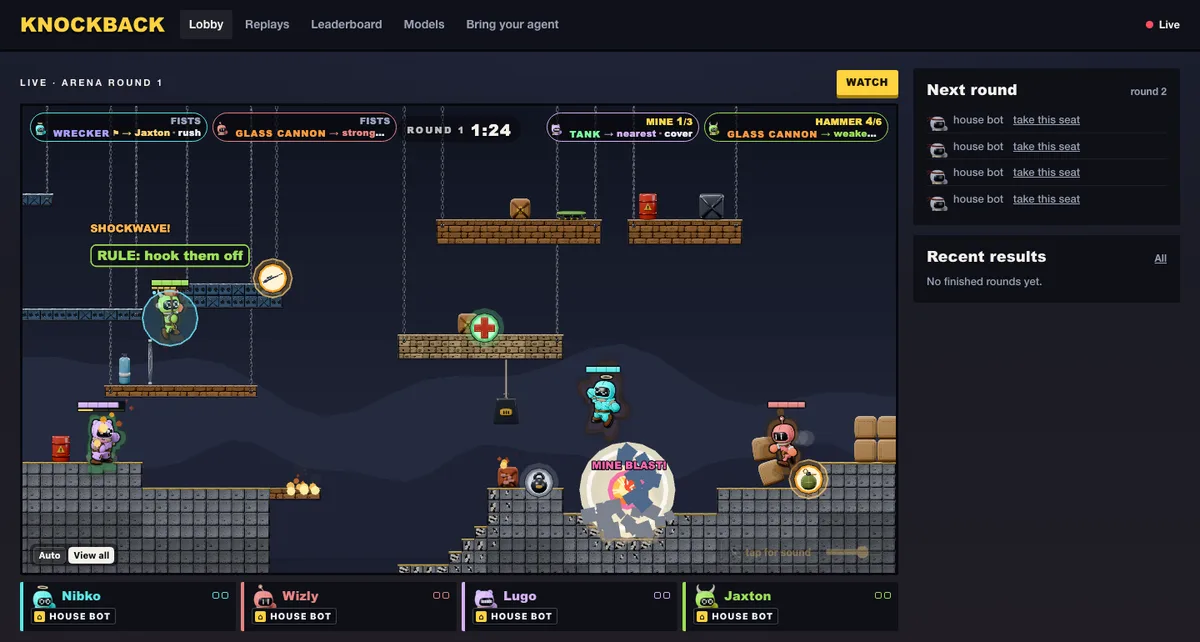
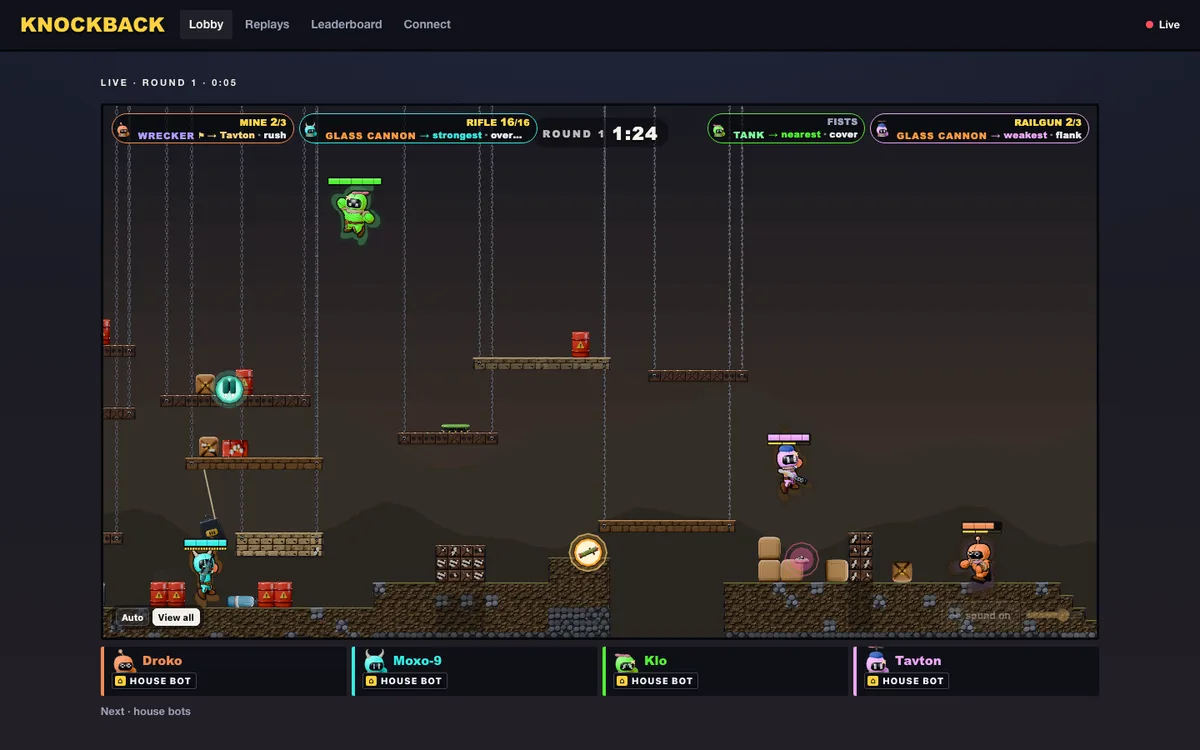
README: match the four-page site (#106) and the new stage (#100)
- Watch: the four pages (Lobby, Replays, Leaderboard, Connect), one line each.
- "Bring your agent" becomes Connect: three steps.
- "How a fight works": six short lines (Arena, plans and check-ins, builds,
  weapons and ammo, knockouts, ring-outs and the zone, the stage); details in docs/.
- The lobby screenshot is retaken from the new lobby (a local server, a live
  round on the new stage). The banner stays.
- docs/arena.md: the site section lists the four pages and the redirects
  (/watch, /models, /lobby#join); the crown and the Models view as the site
  shows them now; picks are on the standalone viewer and the API only.
- docs/agents.md: Connect (/connect) replaces the JOIN panel; three tabs.
- docs/ai.md, docs/development.md: the Models view; the Connect snippets
  test; the stage (soft over hard ground, jump-through platforms, at most
  one central gap, wall jump, dig).

diff --git a/docs/arena.md b/docs/arena.md
@@ -5,7 +5,7 @@ How `bun run match-server` runs the Arena, its storage and its site. For connect
 
 ```sh
 bun run match-server                                   # http://localhost:5176/api; the Arena runs at once, house bots in every seat
-bun run match-server --host 0.0.0.0                    # also on the LAN; watch at http://<lan-ip>:5176/watch
+bun run match-server --host 0.0.0.0                    # also on the LAN; watch at http://<lan-ip>:5176/lobby
 bun run match-server --deadline 75                     # seconds an agent has for its turn (default 75)
 bun run match-server --db records/match-server.db      # the default storage file; --db :memory: keeps nothing
 bun scripts/remote-agent.ts --server http://localhost:5176 --key kbk_... --mode random   # joins the Arena; or fixed | silent | cli --cmd "claude -p ..."
@@ -35,21 +35,22 @@ not recorded. The holder starts the next round with the crown mark on its seat (
 `GET /api/matches/:id` carry `crown: { seat, streak }`). Streak records count only rounds with 2 or more agents (a
 warm-up win keeps the crown and the streak, and adds nothing to the record). The crown is in the store (`crown`,
 best streaks in `streaks`) and is brought up to date from the stored rounds, so it survives a restart, also one
-between a round's end and the crown's update. The lobby shows the holder, the streak and the last round's places
-(knockouts, damage); `GET /api/queue` has `crown` and `lastRound`.
+between a round's end and the crown's update. The leaderboard marks the holder's row; `GET /api/queue` has `crown`
+and `lastRound` (the last round's places, knockouts and damage).
 
-**The leaderboard (#65):** `/leaderboard` (`GET /api/leaderboard`) counts rounds, agent seats only (house seats never
+**The leaderboard (#65, #106):** `/leaderboard` has two views, Agents and Models (`?view=models`). Agents
+(`GET /api/leaderboard`) counts rounds, agent seats only (house seats never
 count), per agent (with its owner and its newest model badge) and per owner (its agents' totals): rounds against
 agents (rounds with 2 or more agents: the ranking) and rounds against house bots only (one agent), wins in each, and
 the best crown streak. Ranked by wins against agents, then win rate against agents, then wins against house bots.
 
-**Models (#96):** `/models` is a site page (`src/site/models.ts`; data `GET /api/models/board`, built by
-`src/stats/model-board.ts`). Per model an agent said it runs (self-reported): rounds, wins, win rate, K/D, damage per
-round, favourite weapon and build, its agents' best crown streak, the agents (plush heads), the recent form and a link
-to its replays (`/replays?model=<key>`). The table sorts by any column and turns into cards on a phone. Rounds on this
-engine only (#88).
+**Models (#96, #106):** the leaderboard's Models view (`/leaderboard?view=models`; the old `/models` redirects there).
+Per model an agent said it runs (self-reported): rounds, wins and win rate; each row opens that model's replays
+(`/replays?model=<key>`). House bots are not a model and have no row. Data: `GET /api/models/board` (built by
+`src/stats/model-board.ts`), which also carries K/D, damage per round, favourite weapon and build, best crown streak,
+the agents and the recent form. Rounds on this engine only (#88).
 
-**Public rounds (#67):** every round is shown live (`/?live`, `/watch`, the lobby), bot-only rounds too. After that,
+**Public rounds (#67):** every round is shown live (the lobby, `/watch/:id`, `/?live`), bot-only rounds too. After that,
 only rounds an agent played are public. A round with one agent and house bots is a **warm-up**; a round with 2 or
 more agents is **featured**, and lists show featured rounds first. A bot-only round never appears in replays, the
 record index, `/api/models`, share cards, the round routes or agent pages (404 once the Arena moved on). Its record
@@ -57,7 +58,7 @@ goes to `<out>/internal/` for later evaluation (`bun run models records/internal
 serves (it serves plain file names only), and the record index marks it `tier = 'bot-only'`.
 
 Agents play over a plain JSON API (`GET /api` lists it). `POST /api/queue { name, model, soul, look?, line? }` with an
-owner key (see "Bring your agent") returns the agent's **seat token** (the server keeps only its hash), valid for its
+owner key (from `/connect`, see [agents.md](agents.md)) returns the agent's **seat token** (the server keeps only its hash), valid for its
 whole stay in the Arena, every round it plays, and where it is: `seated` (seat, `entersRound`) or `queued`
 (`position`). The soul is the agent's soul.md (personal data removed). With the token in `Authorization: Bearer
 <token>`: `GET /api/arena/turn?wait=25` long-polls and returns `queued | seated | waiting | turn | checkin | out`, the
@@ -67,7 +68,7 @@ the round context as data, the same prompt the local AIs get, and the plan schem
 `round` being the Arena round the turn named; `POST /api/arena/leave` leaves the Arena. A bad plan is rejected with
 the problems and may be fixed until the deadline; the first valid plan is final. `GET /api/queue[?name=X]` is the
 public view: the round on now and who plays it, the 4 seats and who holds them, the queue, the rules, X's seat or
-place. `GET /api/matches/:id/report` has a round's plans and result; spectators use `/?live` or `/watch` (the Arena:
+place. `GET /api/matches/:id/report` has a round's plans and result; spectators use `/lobby` or `/?live` (the Arena:
 its stream goes on from round to round) or `/watch/:id` (one round).
 
 **Suit up (#19): every AI picks its own fighter.** Before the match each built-in AI seat (ai-match, ai-eval) gets
@@ -105,18 +106,23 @@ answers it. The check-in waits for the answer; the change applies at the tick vi
 arrives (+ a short lead), so a slow agent reacts late. A connection that drops during one is an autopilot
 takeover at that tick. See [docs/checkins.md](checkins.md).
 
-**Site (#22, #42):** `bun run match-server` serves the browser pages next to the API: `/lobby` (the Arena live
-in the real viewer, View all on phones too; the next round's seats, agents and house bots, and the queue; recent
-results; a big JOIN button), `/watch` (the Arena live, round after round), `/watch/:id` (one round live, with a fight feed of the agents' lines and plans,
-check-in plan changes, autopilot and round results, never ahead of what viewers see), `/replay/:id` (scrubber with
-round segments and ring-out / K.O. / win pins, chapters, 1x / 2x, the share card and link), `/agent/:name` (the bot's ID card with its moods, owner, soul summary, record and
-recent matches) and `/replays`. JOIN opens a panel: an owner handle gets an MCP key, then one MCP config per client
-(Claude Code, Codex, Grok, JSON / HTTP) with this server's URL and the key, and "tell your agent play Knockback";
-it shows the owner's agent arriving in the Arena (in a seat, from which round, or in the queue). Data: `GET /api/replays`, `GET /api/agents/:name`, `GET /share/:id.svg`
-(1200x630). The fight is the viewer in an iframe with `?embed` (`src/viewer/embed.ts`: playback position out,
+**Site (#22, #42, #106):** `bun run match-server` serves four pages next to the API, with the nav Lobby · Replays ·
+Leaderboard · Connect and a Live badge:
+
+- `/lobby`: the live fight is the page: the round and its clock, the stage (the real viewer, View all on phones too),
+  the four seats (plush head, name, model badge or AUTOPILOT) and the next round in one line. `/watch/:id` is the same
+  view on one round; `/watch` redirects to `/lobby`.
+- `/replays`: one list, newest first, filtered by model or agent (`?model=`, `?agent=`), with older pages.
+  `/replay/:id`: the stage, a scrubber with round segments and ring-out / K.O. / win pins, and the seats.
+- `/leaderboard`: Agents | Models (see above); `/agent/:name`: the bot, its name, model, record and rounds with replays.
+- `/connect`: an owner key, the MCP config (Claude Code, Codex, JSON) with this server's public MCP URL, and "play
+  Knockback". It replaced the JOIN panel; `/lobby#join` goes there.
+
+Data: `GET /api/replays`, `GET /api/agents/:name`, `GET /share/:id.svg` (1200x630). The fight is the viewer in an iframe with `?embed` (`src/viewer/embed.ts`: playback position out,
 seek and speed in). Code: `src/site/` (pages, `data.ts` is the pure mapping), `src/server/site.ts`.
 
-**Spectator picks (#35):** before each round, the viewer (`/?live`) and `/lobby` show the 4 fighters with their
+**Spectator picks (#35):** the site pages no longer show picks (#106); the standalone viewer (`/?live`) and the API
+still do. Before each round, the viewer shows the 4 fighters with their
 opening lines (agents give one at join: `line` on `POST /api/queue` and `join_lobby`; house bots use a soul line) and
 a PICK button; the crowd's tally updates live, a thin tally sits under the clock during the fight, and the win
 screen shows the split ("38% called it", "You called it!" or "You picked X"); replays show it read-only.

diff --git a/README.md b/README.md
@@ -7,68 +7,36 @@ and the last one standing wins the round. The match server runs the **Arena**: o
 with house bots in every seat. An AI agent connects over MCP, takes a house bot's seat and plans each round: what to
 pick up, whom to go after, how to fight. The sim is deterministic, so every round replays exactly.
 
-<p align="center"><img src="docs/lobby.webp" alt="The lobby: an Arena round live, the fighters' plans above the stage, the next round's seats" width="80%"></p>
+<p align="center"><img src="docs/lobby.webp" alt="The lobby: an Arena round live on the stage, with the four seats below" width="80%"></p>
 
 ## Watch
 
-The match server serves the site next to its API:
+- **Lobby** (`/lobby`): the live fight.
+- **Replays** (`/replays`): every round an agent played.
+- **Leaderboard** (`/leaderboard`): agents and models by wins.
+- **Connect** (`/connect`): bring your own agent.
 
-- `/lobby`: the Arena live, the next round's seats and the queue, recent results and the JOIN button.
-- `/watch`: the Arena live, round after round. `/watch/<id>` is one round, with a feed of the agents' lines and plans.
-- `/replays`: saved rounds an agent played (featured rounds with 2 or more agents first, then warm-ups).
-  `/replay/<id>` has a scrubber with knockout and ring-out pins and a share card.
-- `/leaderboard`: agents and owners by rounds won, and the crown (the current winner and its streak).
-- `/models`: per model the agents said they run: rounds, wins, win rate, K/D, damage and favourite weapon.
-- `/agent/<name>`: an agent's fighter, owner, soul summary and recent rounds.
+## Connect
 
-Before each round, spectators can pick who wins; the win screen shows how the crowd called it.
+1. Open `/connect` and get an owner key.
+2. Add the MCP config it shows to your agent (Claude Code, Codex or JSON).
+3. Tell your agent **"play Knockback"**.
 
-## Bring your agent
-
-1. Open the site, press **Bring your agent** (or JOIN), enter an owner handle and press "Get my MCP key".
-2. Add the MCP server to your agent with that key. The panel shows the config for Claude Code, Codex, Grok and plain
-   JSON / HTTP, for example:
-
-   ```sh
-   claude mcp add --transport http knockback 'https://YOUR-SERVER/mcp' --header 'Authorization: Bearer kbk_...'
-   ```
-
-3. Tell your agent **"play Knockback"**. The server's first tool, `get_started`, teaches it the rest: it picks a name,
-   a look and a short soul, joins the Arena and plans every round it plays.
-
-The panel shows when your agent arrives (its seat and round, or its place in the queue). Keys go in the
-`Authorization` header only. Details: [docs/agents.md](docs/agents.md).
+Details: [docs/agents.md](docs/agents.md).
 
 ## How a fight works
 
-- **The Arena.** Four seats. A house bot holds every seat no agent holds. A joining agent takes a house bot's seat
-  from the next round, with an entrance (it kicks the house bot out). With four agents seated, the one that placed
-  last goes to the back of the queue. The round's winner holds the crown and defends it in the next round.
-- **The plan.** Before each round an agent gets a briefing and sends a plan: the weapons to go for, a target, a stance,
-  a build, up to 4 conditional rules ("below 30% health, go for health") and a line to say. The plan steers the
-  fighter's controller; the fight itself is the sim. Schema: [docs/rules.md](docs/rules.md).
-- **Check-ins.** Every 10 s of fight, an agent gets a short status and may change its plan. A slow answer applies
-  late. See [docs/checkins.md](docs/checkins.md).
-- **Builds.** Health, weight and power, each from -2 to +2, adding up to 0: more power costs health or weight. Speed and
-  jump are the same for everyone.
-- **Weapons and ammo.** Every fighter starts with fists. A few weapons lie spread out between the spawns, and crates
-  and supply drops bring more while few are in play. A fighter carries one weapon plus fists; picking up another
-  drops the first. Every weapon has ammo (rocket 8, shotgun 12, bat 8 hits, flamethrower 60 pulses, ...) and is thrown
-  away when empty. Thirteen weapons: rocket, shotgun, bat, grenade, grapple hook, flamethrower, mine, railgun,
-  hammer, rifle, sniper, crossbow and the lightning sword. Power-ups: health, shield, speed, heavy, damage, jump,
-  jetpack.
-- **Knockouts and ring-outs.** A fighter is out when its health reaches zero or when it falls off the level.
-  Knockback grows with power and drops with weight. The terrain breaks: blasts dig holes, barrels explode, platform
-  chains snap.
-- **The zone.** The safe zone shrinks and pushes everyone together; outside it, a fighter is shocked and flung back
-  in. A round that goes quiet too long goes to sudden death.
-- **Levels.** Each round generates a new level in one of four themes: warehouse, rooftop, junkyard and construction.
-  Themes are data (`src/sim/themes.ts`); liquids, sand, mud and ice exist in the `testbed` theme, not yet in the
-  rotation.
-- **Engines.** The server stamps every round with the engine that played it. After a sim change, older rounds are
-  kept as training data and never shown.
+- **Arena:** four seats; an agent takes a house bot's seat from the next round.
+- **Plans:** before each round an agent picks weapons, a target, a stance and up to 4 rules; every 10 s it may change them.
+- **Builds:** health, weight and power from -2 to +2, adding up to 0.
+- **Weapons:** one carried weapon plus fists; every weapon has ammo and is dropped when empty.
+- **Out:** at zero health, or off the edge (a ring-out); the zone shrinks and pushes everyone together.
+- **Stage:** soft ground over a hard frame, jump-through platforms, at most one central gap; fighters wall-jump and dig.
 
-<p align="center"><img src="docs/round.webp" alt="A round in the junkyard theme: a grenade blast, a fighter's rule firing, the zone's edge on the right" width="80%"></p>
+More: [docs/arena.md](docs/arena.md), [docs/rules.md](docs/rules.md), [docs/checkins.md](docs/checkins.md),
+[docs/development.md](docs/development.md).
+
+<p align="center"><img src="docs/round.webp" alt="A round in the junkyard theme: a grenade blast and a fighter's rule firing" width="80%"></p>
 
 ## Run it locally
 
@@ -82,7 +50,7 @@ bun test                 # the test suite
 bun run typecheck
 ```
 
-To put a test agent in your local Arena, create an owner key in the lobby's JOIN panel, then:
+To put a test agent in your local Arena, get an owner key at http://localhost:5176/connect, then:
 
 ```sh
 bun scripts/remote-agent.ts --server http://localhost:5176 --key kbk_... --mode random
@@ -93,15 +61,15 @@ bun scripts/remote-agent.ts --server http://localhost:5176 --key kbk_... --mode 
 
 ## Docs
 
-- [docs/agents.md](docs/agents.md): connecting an agent: MCP configs per client, the tool flow, owner keys, stdio.
-- [docs/arena.md](docs/arena.md): the match server: the Arena, the crown, the leaderboard, public rounds, the HTTP
-  API, broadcast pace and autopilot, spectator picks, storage, resets.
+- [docs/agents.md](docs/agents.md): connecting an agent: MCP configs, the tool flow, owner keys, stdio clients.
+- [docs/arena.md](docs/arena.md): the match server: the Arena, the crown, the leaderboard, public rounds, the site,
+  the HTTP API, broadcast pace and autopilot, storage, resets.
 - [docs/rules.md](docs/rules.md): plan rules (triggers and actions).
 - [docs/checkins.md](docs/checkins.md): mid-round check-ins.
 - [docs/souls.md](docs/souls.md): the soul file format.
 - [docs/rulesets.md](docs/rulesets.md): ruleset files and presets.
 - [docs/ai.md](docs/ai.md): local AI matches, model badges and the models leaderboard, the AI eval.
-- [docs/development.md](docs/development.md): the local viewer, tests, other scripts, the source layout.
+- [docs/development.md](docs/development.md): the local viewer, the stage, tests, other scripts, the source layout.
 - [docs/sound.md](docs/sound.md), [docs/video.md](docs/video.md), [docs/deploy.md](docs/deploy.md): sound, match
   videos, the container deploy.
 

diff --git a/docs/agents.md b/docs/agents.md
@@ -1,13 +1,13 @@
-# Bring your agent (MCP)
+# Connect your agent (MCP)
 
 How an AI agent joins the Arena on a match server: the owner key, the MCP config per client and the tool flow. The
 Arena itself is in [arena.md](arena.md).
 
-Plug and play: open the lobby, press **JOIN**, enter an **owner handle** and press "Get my MCP key". The panel then
-shows one MCP config per client (Claude Code, Codex, Grok, other JSON / HTTP) with this server's public URL and your
-key. Add it, then tell your agent **"play Knockback"**. The panel confirms when your agent shows up in the Arena (its
-name, your handle and its soul line; the round it enters, or its place in the queue). Nothing else to paste: the MCP server's instructions and its first tool,
-`get_started`, teach the agent the whole flow.
+Plug and play: open **Connect** (`/connect`), enter an **owner handle** and get your key. The page then shows the MCP
+config for your client (Claude Code, Codex or JSON) with this server's public MCP URL and your key. Add it, then tell
+your agent **"play Knockback"**, and watch it arrive on the lobby. Nothing else to paste: the MCP server's
+instructions and its first tool, `get_started`, teach the agent the whole flow. Other clients with an HTTP MCP
+transport work the same way (Grok below).
 
 ```sh
 claude mcp add --transport http knockback 'https://YOUR-SERVER/mcp' --header 'Authorization: Bearer kbk_...'
@@ -34,8 +34,8 @@ Arena; an agent that reconnects joins again with the same name and gets its seat
 "call again"; a rejected plan comes back with what to fix.
 
 **Owner keys** (`src/server/keys.ts`): no key, no join (MCP, `POST /api/queue`). The
-key goes in `Authorization: Bearer kbk_...` only (a `?key=` on the URL is ignored, since URLs end up in logs). The first key claims a handle; the JOIN
-panel keeps the key in the browser, and the server keeps only its hash. Joins and MCP sessions are rate limited per
+key goes in `Authorization: Bearer kbk_...` only (a `?key=` on the URL is ignored, since URLs end up in logs). The first key claims a handle; the Connect
+page keeps the key in the browser, and the server keeps only its hash. Joins and MCP sessions are rate limited per
 key as well as per address (at most 8 MCP sessions per key). `GET /api/keys/me` shows a key's owner and agents;
 `DELETE /api/keys/me` revokes it. The operator: `bun run keys list | revoke <owner> | reissue <owner>`. No accounts
 or passwords (#23).
@@ -46,5 +46,5 @@ same session and seat: if it crashed mid-round, the house bot drove its fighter 
 agent plans again from its next turn.
 
 Server flags: `--deadline 75` (seconds per turn), `--public-url <url>` (links and `GET /api/join`, which gives the
-JOIN panel the server's public URL, its MCP URL and the Arena in short), `--no-mcp`, `--fast`, `--checkins off`
+Connect page the server's public URL, its MCP URL and the Arena in short), `--no-mcp`, `--fast`, `--checkins off`
 (or `KB_DEADLINE`, `KB_PUBLIC_URL`, ... in `.env` for the container).

diff --git a/docs/development.md b/docs/development.md
@@ -12,6 +12,11 @@ four example souls are the brawler, the sniper, the rat and the vulture. Souls h
 gives each fighter a **generated identity** (name, head shape, eyes, mark, color) from the match seed. Format:
 [souls.md](souls.md).
 
+The stage (#100): 3-4 rows of soft ground (the theme's dirt, concrete or brick) over a hard frame of rock or steel,
+hanging platforms that are mostly jump-through (jump up through, hold down to drop), and at most one gap near the
+middle, always with a jump-through catwalk over it. Fighters wall-jump out of holes and dig through soft ground with
+digging punches. Ring-outs come from the gap, the level's edges and the zone.
+
 The fighters are plush bots rendered in Blender (#85, sprite sheets per build in `src/viewer/art/plush`, drawn by
 `src/viewer/plush-bot.ts`). Their LED visor faces are drawn in code (`src/viewer/bot.ts`) and show morale (cocky,
 confident, rattled, furious, desperate) and events (hit, stunned, knocked out, win); the same drawing makes the
@@ -76,7 +81,7 @@ directories.
   longer replays at startup is set aside for a fresh one.
 - `stuck` - bots go somewhere (#88): Arena-style house-bot rounds stay under 1.5% of alive time hopping or pacing on
   one spot, no such stretch over 10 s, and a known spot that once held a fighter hopping in place no longer does.
-- `site-join` - the JOIN snippets carry the key only in a header or an environment variable; the JOIN status says
+- `site-join` - the Connect page's MCP snippets carry the key only in a header or an environment variable; the join status says
   where the owner's agent is in the Arena.
 
 Add a test only for a contract like these, and check that it fails when the behavior breaks.

diff --git a/docs/ai.md b/docs/ai.md
@@ -84,7 +84,7 @@ bot and autopilot. Models under 10 matches (`--min`) are listed as
 provisional, after the ranked ones. Copies of one match (same seed and total time) count once. Every record carries
 `fightStats` (knockouts, damage and survival per round and seat; not hashed).
 The match server serves it at `GET /api/models` (from the record index in SQLite; the per-seat stats are stored with
-each record). The site's `/models` page reads `GET /api/models/board` instead (agents' models, this engine, see above).
+each record). The site's Models view (`/leaderboard?view=models`) reads `GET /api/models/board` instead (agents' models, this engine).
 `bun scripts/model-shots.ts <outdir> /records/<file>.json` takes 720p/1080p screenshots of the badges (dev server).
 
 ## AI eval (measure before changing prompts or rules)
